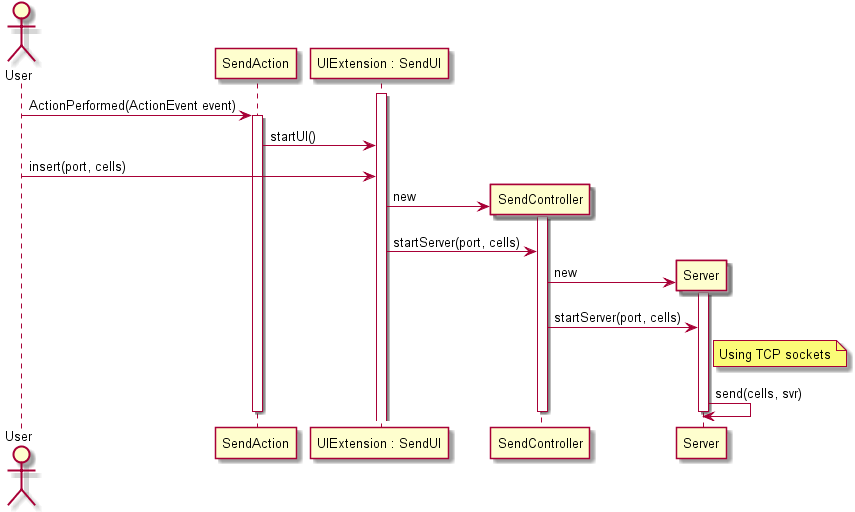
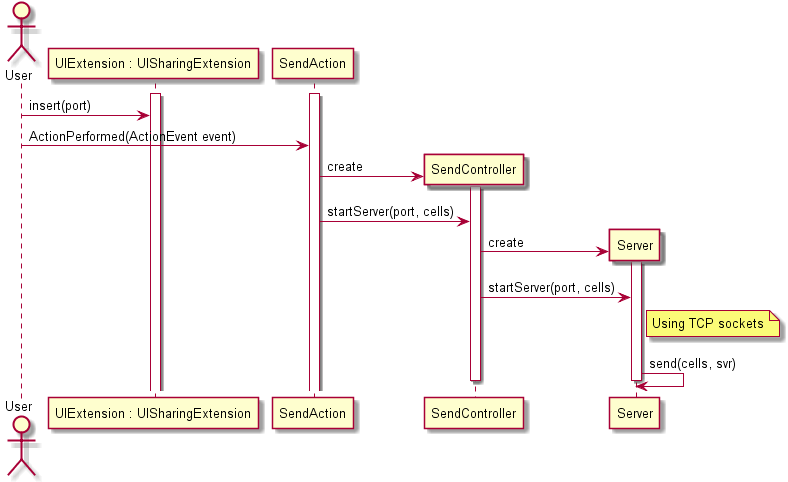
1100859: Updated sd due the sidebar change ref #1 #2

Changed region(s): [[0.0, 0.0, 1.0, 0.9959]]

diff --git a/src/csheets/ext/share/package-info.java b/src/csheets/ext/share/package-info.java
@@ -149,22 +149,22 @@
 
  @startuml doc-files/sd_send_server.png
  Actor User as us
+ participant "UIExtension : UISharingExtension" as sui
  participant SendAction as sa
- participant "UIExtension : SendUI" as sui
  participant SendController as sc
  participant Server as svr
 
  activate sui
- us -> sa : ActionPerformed(ActionEvent event)
  activate sa
- sa -> sui : startUI()
- us -> sui : insert(port, cells)
+ us -> sui : insert(port)
+ us -> sa : ActionPerformed(ActionEvent event)
+
  Create sc
- sui -> sc : new
+ sa -> sc : create
  activate sc
- sui -> sc : startServer(port, cells)
+ sa -> sc : startServer(port, cells)
  Create svr
- sc -> svr : new
+ sc -> svr : create
  activate svr
  sc -> svr : startServer(port, cells)
  note right svr
@@ -173,31 +173,29 @@
  svr -> svr : send(cells, svr)
  deactivate svr
  deactivate sc
- deactivate sa
 
  @enduml
 
  @startuml doc-files/sd_receive_client.png
 
  actor user as us
+ participant "UIExtension : UISharingExtension" as rui
  participant ReceiveAction as ra
- participant ReceiveUI as rui
  participant ReceiveController as rc
  participant Client as cli
 
  activate rui
- us -> ra : ActionPerformed(ActionEvent event)
  activate ra
- ra -> rui : startUI()
- us -> rui : insert(IP, port, cell)
+ us -> rui : insert(IP, port)
+ rui -> ra : ActionPerformed(ActionEvent event)
  Create rc
- rui -> rc : new
+ ra -> rc : create
  activate rc
- rui -> rc : startClient(IP, port, cell)
+ ra -> rc : startClient(IP, port, cell)
 
  Create cli
 
- rc -> cli : new
+ rc -> cli : create
  activate cli
  rc -> cli : startClient(IP, port, cell)
  note right cli
@@ -206,7 +204,6 @@
  cli -> cli : receive(cell, cli)
  deactivate cli
  deactivate rc
- deactivate ra
 
  @enduml
 
